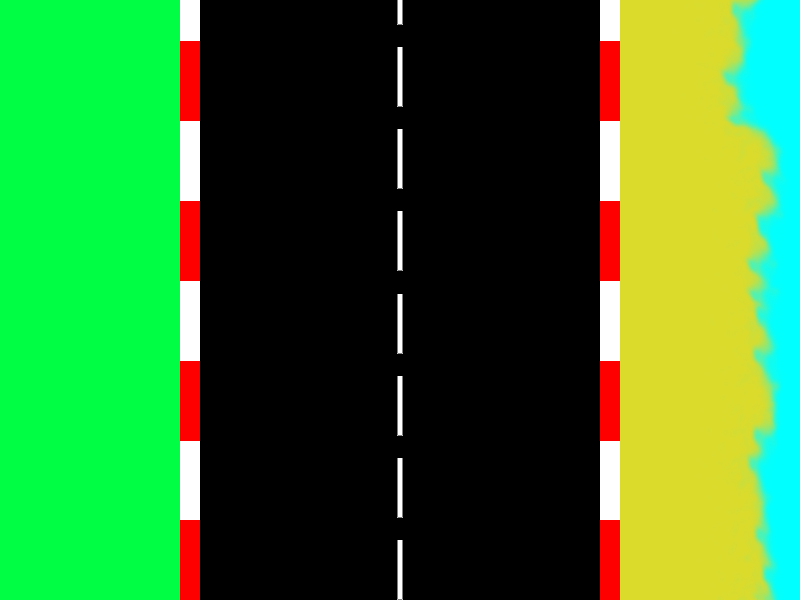
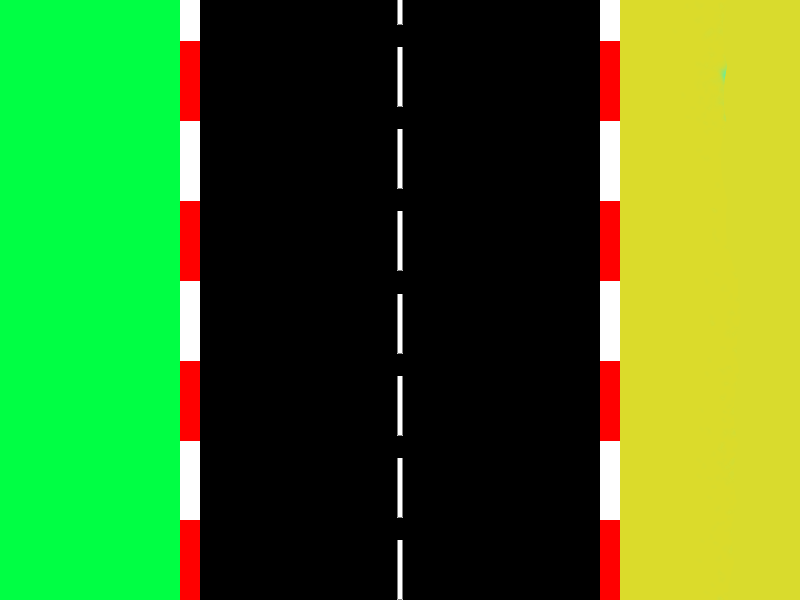
background improvement, new project structure for PDS WWW

Changed region(s): [[0.9062, 0.0, 1.0, 1.0]]

diff --git a/TicTacToe.html b/TicTacToe.html
@@ -1,0 +1,49 @@
+<!DOCTYPE HTML>
+<html>
+
+<head>
+    <style>
+        body{
+            background-color: black;
+        }
+        .board {
+            display: grid;
+            grid-template-columns: repeat(3, 100px);
+            grid-template-rows: 100px 100px 100px;
+            grid-gap: 10px;
+            color: black;
+            font-size: 70px;
+            font-family: sans-serif;
+            position: absolute;
+            background-color: white;
+        }
+
+        .box {
+            background-color: black;
+            padding-top: 10%;
+            text-align: center;
+        }
+
+        .box:hover {
+            color: white;
+        }
+    </style>
+    <link rel="stylesheet" href="styles.css">
+</head>
+
+<body>
+<div class="board">
+    <div class="box">X</div>
+    <div class="box">X</div>
+    <div class="box">X</div>
+    <div class="box">X</div>
+    <div class="box">X</div>
+    <div class="box">X</div>
+    <div class="box">X</div>
+    <div class="box">X</div>
+    <div class="box">X</div>
+</div>
+
+</body>
+
+</html>

diff --git a/Animacja2.html b/Animacja2.html
@@ -35,8 +35,20 @@
     }
 
     straight2_image = new Image();
-    straight2_image.src = 'assets/straight1.png'
+    straight2_image.src = 'assets/straight2.png'
     straight2_image.onload = function () {
+        drawBackground();
+    }
+
+    straight3_image = new Image();
+    straight3_image.src = 'assets/straight3.png'
+    straight3_image.onload = function () {
+        drawBackground();
+    }
+
+    straight4_image = new Image();
+    straight4_image.src = 'assets/straight4.png'
+    straight4_image.onload = function () {
         drawBackground();
     }
 
@@ -76,8 +88,14 @@
         ctx.drawImage(straight1_image, 0, 0, 800, 600)
         backgroundDelay += 10;
         if(backgroundDelay>=20) {
-            backgroundDelay = 0;
             ctx.drawImage(straight2_image, 0, 0, 800, 600)
+        }
+        if(backgroundDelay>=40) {
+            ctx.drawImage(straight3_image, 0, 0, 800, 600)
+        }
+        if(backgroundDelay>=60) {
+            backgroundDelay = 0;
+            ctx.drawImage(straight4_image, 0, 0, 800, 600)
         }
     }
 

diff --git a/index.html b/index.html
@@ -7,9 +7,9 @@
     <title>PG2D</title>
 </head>
 <body>
-    <p style="font-family: -apple-system, BlinkMacSystemFont, 'Segoe UI', Roboto, Oxygen, Ubuntu, Cantarell, 'Open Sans', 'Helvetica Neue', sans-serif;">Programowanie gier 2D</p>
-    <a href=Canvas.html>Canvas</a>
-    <a href=Animacja.html>Animacja</a>
-    <a href=Animacja2.html>Animacja2</a>
+    <p style="font-family: -apple-system, BlinkMacSystemFont, 'Segoe UI', Roboto, Oxygen, Ubuntu, Cantarell, 'Open Sans', 'Helvetica Neue', sans-serif;">Wioleta Borkowska<br>224790</p>
+    <a href=pg2d.html>Programowanie Gier 2D</a>
+    <br>
+    <a href=pds.html>Projektowanie dynamicznych stron www</a>
 </body>
 </html>

diff --git a/pg2d.html b/pg2d.html
@@ -1,0 +1,17 @@
+<!DOCTYPE html>
+<html lang="en">
+<head>
+    <meta charset="UTF-8">
+    <meta http-equiv="X-UA-Compatible" content="IE=edge">
+    <meta name="viewport" content="width=device-width, initial-scale=1.0">
+    <title>PG2D</title>
+</head>
+<body>
+<p style="font-family: -apple-system, BlinkMacSystemFont, 'Segoe UI', Roboto, Oxygen, Ubuntu, Cantarell, 'Open Sans', 'Helvetica Neue', sans-serif;">Programowanie gier 2D</p>
+<a href=Canvas.html>Canvas</a>
+<br>
+<a href=Animacja.html>Animacja</a>
+<br>
+<a href=Animacja2.html>Animacja2</a>
+</body>
+</html>

diff --git a/pds.html b/pds.html
@@ -1,0 +1,15 @@
+<!DOCTYPE html>
+<html lang="en">
+<head>
+    <meta charset="UTF-8">
+    <meta http-equiv="X-UA-Compatible" content="IE=edge">
+    <meta name="viewport" content="width=device-width, initial-scale=1.0">
+    <title>PG2D</title>
+</head>
+<body>
+<p style="font-family: -apple-system, BlinkMacSystemFont, 'Segoe UI', Roboto, Oxygen, Ubuntu, Cantarell, 'Open Sans', 'Helvetica Neue', sans-serif;">Projektowanie dynamicznych stron www</p>
+<a href=TicTacToe.html>Kółko i krzyżyk</a>
+<br>
+<a href=Flags.html>Flagi</a>
+</body>
+</html>
